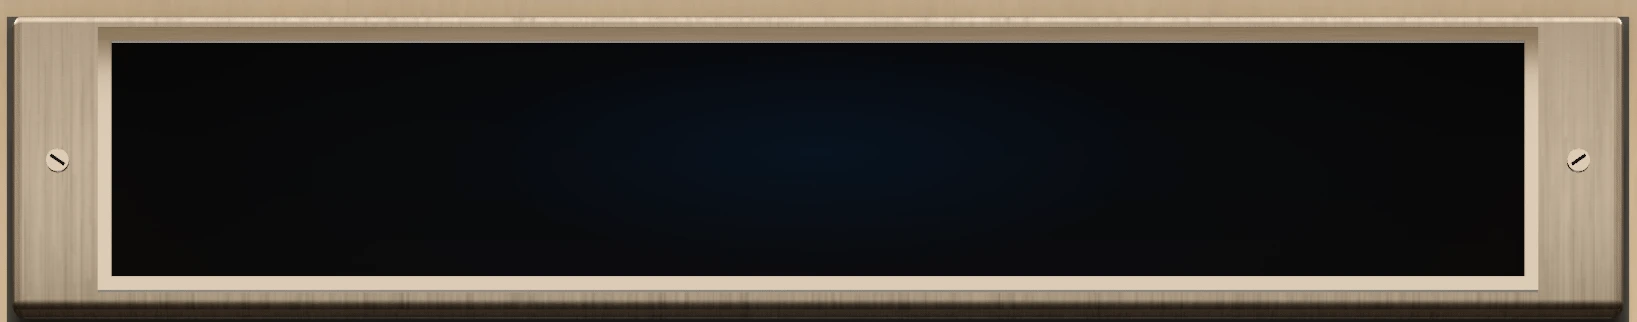
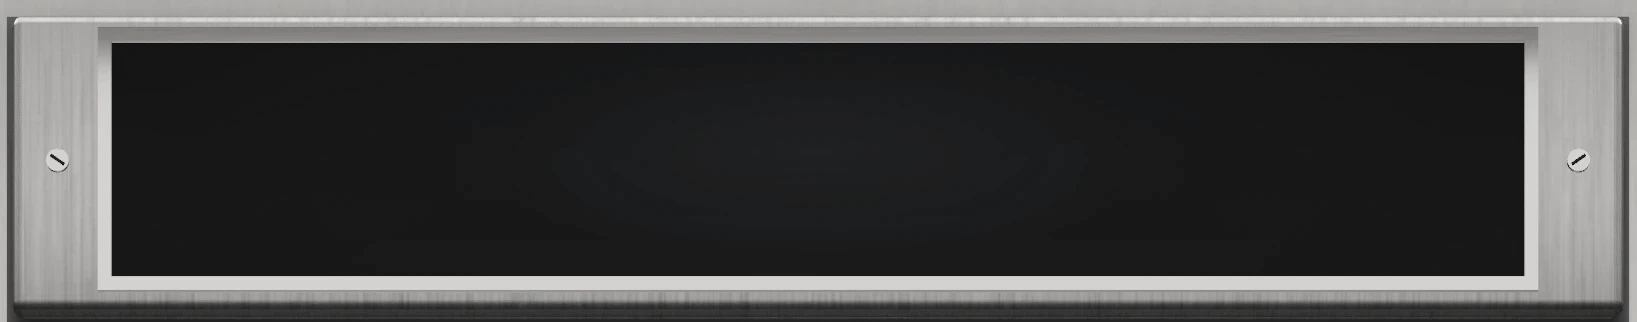
2D: animated spun-metal buttons, stainless indicator plate, better door frame

Changed region(s): [[0.0, 0.0, 1.0, 1.0]]

diff --git a/2d/index.html b/2d/index.html
@@ -622,6 +622,43 @@
 @keyframes liftRing{50%{box-shadow:0 0 2.4cqw rgba(30,160,235,1),0 0 7cqw rgba(0,125,186,.8)}}
 #lift .panel .btn[aria-label="alarm"].on .cap::before{background:radial-gradient(circle,#ffe3de 0 58%,#ff6a55 70%,#e52a14 100%); box-shadow:0 0 1.6cqw rgba(255,60,35,.95),0 0 4.5cqw rgba(230,40,20,.6)}
 #lift .panel .btn:focus-visible .cap{outline:.5cqw solid #fff; outline-offset:.8cqw}
+/* --- richer buttons: spun-metal caps whose highlight swings round on hover, ring wakes up, cap lifts --- */
+@property --sheen{syntax:'<angle>'; inherits:true; initial-value:0deg}
+@property --ring{syntax:'<number>'; inherits:true; initial-value:0}
+#lift .panel .btn{--sheen:0deg; --ring:0; transition:--sheen .7s cubic-bezier(.2,.8,.2,1), --ring .35s ease}
+#lift .panel .btn:hover{--sheen:55deg; --ring:1}
+#lift .panel .btn .cap{background:conic-gradient(from var(--sheen),#fbf7ee,#a39988 11%,#ece5d6 25%,#857c6d 38%,#ddd5c5 50%,#857c6d 62%,#ece5d6 75%,#a39988 89%,#fbf7ee) !important}
+#lift .panel .btn .cap::after{content:""; position:absolute; inset:8.5%; border-radius:50%; box-shadow:inset 0 0 0 .18cqw rgba(40,30,15,.55),inset 0 .5cqw .6cqw rgba(0,0,0,.45); pointer-events:none}
+#lift .panel .btn .ico{isolation:isolate; transition:transform .28s cubic-bezier(.3,1.6,.5,1), box-shadow .28s, background .25s !important}
+#lift .panel .btn .ico::after{content:""; position:absolute; inset:0; border-radius:50%; z-index:-1; pointer-events:none;
+  background:conic-gradient(from calc(var(--sheen) - 20deg),rgba(255,255,255,.75),rgba(255,255,255,0) 13%,rgba(60,45,20,.12) 25%,rgba(255,255,255,0) 37%,rgba(255,255,255,.55) 50%,rgba(255,255,255,0) 63%,rgba(60,45,20,.12) 75%,rgba(255,255,255,0) 87%,rgba(255,255,255,.75)),
+             repeating-radial-gradient(circle,rgba(60,45,20,.07) 0 .12cqw,rgba(255,255,255,.05) .12cqw .28cqw);
+  box-shadow:inset 0 0 0 .14cqw rgba(255,255,255,.5),inset 0 0 0 .3cqw rgba(60,45,20,.14)}
+#lift .panel .btn .num-cap{font-size:5.7cqw !important}
+#lift .panel .btn:hover .ico{transform:translateY(-.25cqw) scale(1.05); box-shadow:inset 0 .3cqw .25cqw rgba(255,255,255,.95),inset 0 -.6cqw .9cqw rgba(60,45,20,.24),0 .7cqw 1cqw rgba(0,0,0,.6)}
+#lift .panel .btn:active .ico{transform:translateY(.1cqw) scale(.95) !important; transition-duration:.06s !important}
+#lift .panel .btn:not(.here):not(.lit):not(.on):hover .cap::before{background:radial-gradient(circle,#0e2a3a 0 60%,#2f9fda 78%,#0b6ea6 100%); box-shadow:0 0 calc(var(--ring) * 1.4cqw) rgba(40,165,235,.75),inset 0 .3cqw .4cqw rgba(0,0,0,.6)}
+#lift .panel .btn .lbl{transition:color .25s, letter-spacing .35s cubic-bezier(.2,.8,.2,1), text-indent .35s}
+#lift .panel .btn:hover .lbl{color:#0b5d8c; letter-spacing:.2em; text-indent:.2em}
+#lift .panel .btn.ph:hover .lbl{color:#6f6453}
+@media (prefers-reduced-motion:reduce){#lift .panel .btn,#lift .panel .btn .ico,#lift .panel .btn .lbl{transition:none !important}}
+/* --- door frame: satin stainless header and jambs with a bright chamfer and a dark return --- */
+#lift .trim{filter:none !important}
+#lift{--tw:max(1.15vh,7px)}
+#lift .trim.l{left:calc(var(--s,5%) - var(--tw)) !important; width:var(--tw) !important}
+#lift .trim.r{width:var(--tw) !important}
+#lift .trim.t{left:calc(var(--s,5%) - var(--tw)) !important; width:calc(100% - 2 * var(--s,5%) + 2 * var(--tw)) !important}
+#lift .jamb{filter:none !important}
+#lift .jamb.l{background:linear-gradient(90deg,#7b7e81,#4f5254 45%,#232426 80%,#0d0d0e) !important}
+#lift .jamb.r{background:linear-gradient(270deg,#7b7e81,#4f5254 45%,#232426 80%,#0d0d0e) !important}
+#lift .trim.l{background:linear-gradient(90deg,#55585b 0,#c9cccd 16%,#e9ebeb 30%,#aeb1b3 58%,#6c6f72 80%,#1a1b1d 92%,#060606) !important; box-shadow:.3vh 0 .8vh rgba(0,0,0,.35)}
+#lift .trim.r{background:linear-gradient(270deg,#55585b 0,#c9cccd 16%,#e9ebeb 30%,#aeb1b3 58%,#6c6f72 80%,#1a1b1d 92%,#060606) !important; box-shadow:-.3vh 0 .8vh rgba(0,0,0,.35)}
+#lift .trim.t{background:
+    linear-gradient(180deg,rgba(255,255,255,.75) 0,rgba(255,255,255,0) 7%,rgba(255,255,255,0) 62%,rgba(0,0,0,.2) 84%,#17181a 86%,#050505 100%),
+    linear-gradient(90deg,rgba(0,0,0,.2),rgba(255,255,255,.14) 22%,rgba(0,0,0,.05) 48%,rgba(255,255,255,.16) 74%,rgba(0,0,0,.22)),
+    repeating-linear-gradient(180deg,rgba(255,255,255,.05) 0 1px,rgba(0,0,0,.035) 1px 2px),
+    linear-gradient(180deg,#dcdedf,#c2c5c7 45%,#9da0a3) !important;
+  box-shadow:0 .9vh 1.6vh rgba(0,0,0,.5),0 -.1vh 0 rgba(0,0,0,.35) !important}
 #lift .panel .pscr{position:absolute; left:29%; width:42.6%; top:3.5%; height:10.1%; border-radius:.15vh; pointer-events:none}
 </style>
 
